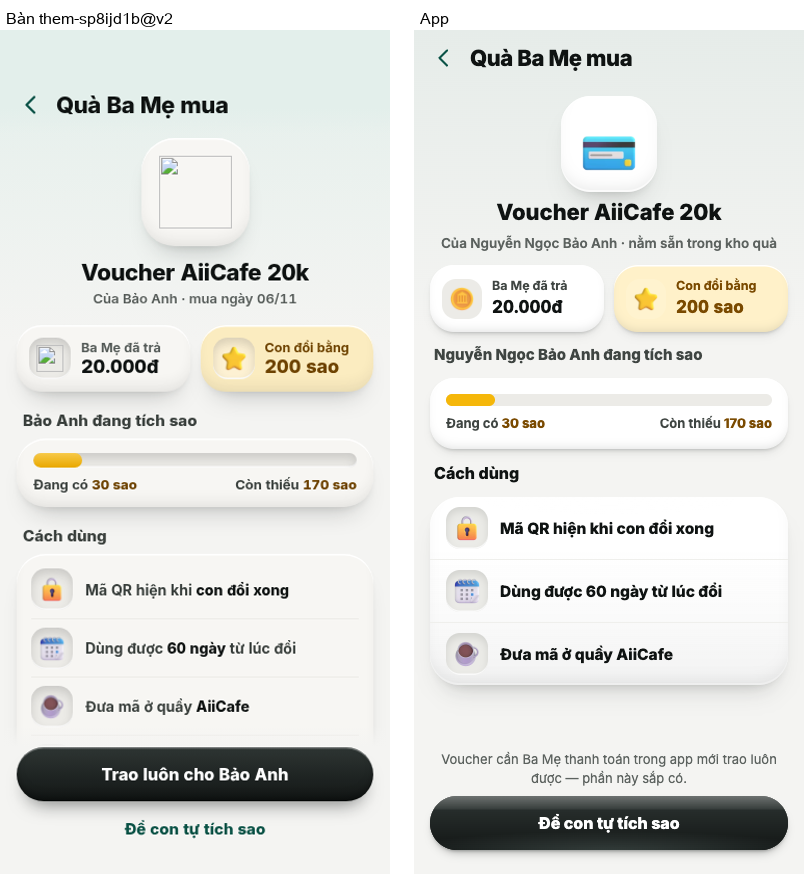
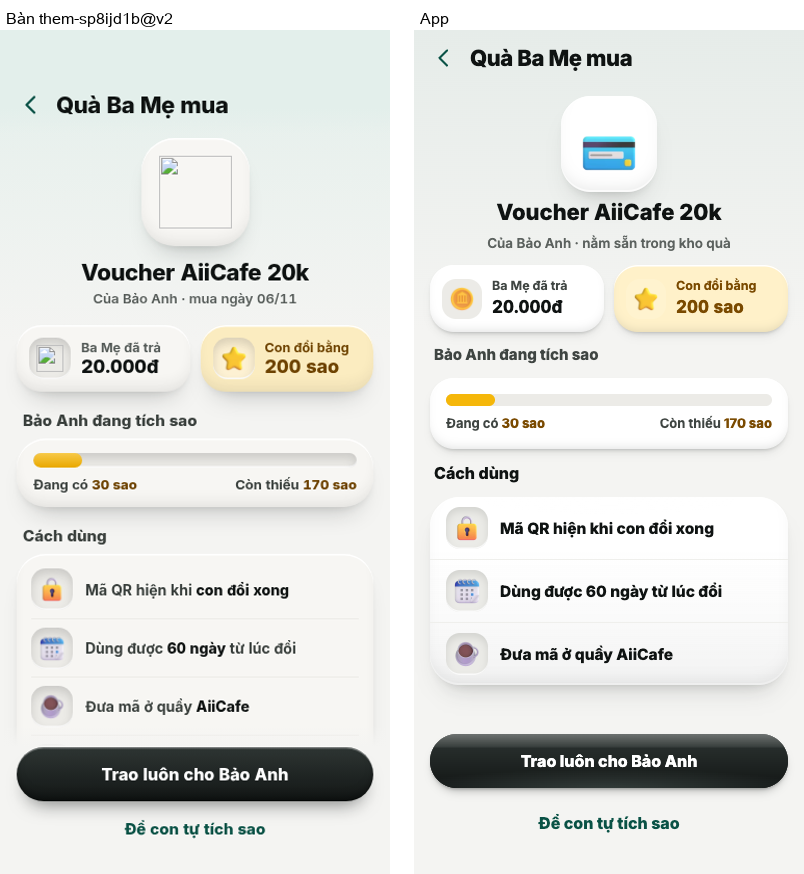
Sửa theo review #351: tên ngắn, «Trao luôn» như bàn, «Áp cho» từ quà đã lưu, nút xoá đỏ đặc
Claude-Session: https://claude.ai/code/session_01DSu591D8CbBg6o268DT8cz

Changed region(s): [[0.5286, 0.8341, 0.995, 0.9886], [0.5597, 0.2471, 0.9639, 0.3089], [0.5286, 0.4016, 0.8706, 0.4325]]

diff --git a/mobile/src/app/vi/qua-mua.tsx b/mobile/src/app/vi/qua-mua.tsx
@@ -8,9 +8,9 @@
 import { router, useLocalSearchParams } from "expo-router";
 import { View } from "react-native";
 import { bm, LoiApi, type GiaDinh } from "@/lib/api";
-import { loiTraoLuon, quaTrongKho, traoLuonDuoc, type DongQua } from "@/lib/noi-1411";
+import { loiTraoLuon, quaTrongKho, type DongQua } from "@/lib/noi-1411";
 import { KHOI } from "@/lib/clay";
-import { quyenToi } from "@/lib/hang-ngay";
+import { quyenToi, tenGoi } from "@/lib/hang-ngay";
 import { icQua, tenVoucher, type NhomThuVien } from "@/lib/s3";
 import { OIcon } from "@/lib/ui-bm3";
 import { BaoLoi, baoKhiVe, ChoTai, Chu, Dong, Icon3D, M, Man, Nhom, Nut, tien, useLam, useTai, type TenIcon } from "@/lib/ui";
@@ -35,7 +35,7 @@ export default function QuaBaMeMua() {
   if (!d) return <Man lui={{ chu: "" }} tieu={tieu}><ChoTai loi={loi} matMang={matMang} tai={tai} /></Man>;
   const m = d.m;
   if (!m) return <Man lui={{ chu: "" }} tieu={tieu}><ChoTai loi="Quà này không còn bán." tai={() => router.back()} /></Man>;
-  const ten = d.c?.ten ?? "con";
+  const ten = d.c ? tenGoi(d.c.ten) : "con";
   const thieu = d.sao !== null ? Math.max(0, m.sao - Math.max(0, d.sao)) : null;
   const cafe = /AiiCafe/i.test(m.ten);
   const them = () => lam(async () => {
@@ -45,8 +45,9 @@ export default function QuaBaMeMua() {
   });
   const qk = d.trongKho;
   // «Trao luôn»: chỉ Ba Mẹ, quà đã ở kho của con, không phải voucher (máy chủ 409 voucher_can_thanh_toan)
-  const traoDuoc = d.baMe && m.daCo && !!con && !!qk && traoLuonDuoc(qk.loai);
-  const voucherCho = d.baMe && m.daCo && !!con && !!qk && !traoLuonDuoc(qk.loai);
+  // bàn sp8ijd1b@v2 vẽ «Trao luôn» cả cho voucher ⇒ hiện nút; voucher thì máy chủ vẫn chặn 409 voucher_can_thanh_toan (chưa có thanh toán)
+  // và màn báo câu dễ hiểu (loiTraoLuon) — logic không đổi
+  const traoDuoc = d.baMe && m.daCo && !!con && !!qk;
   const trao = () => lam(async () => {
     try {
       const r = await bm.goi<{ phut?: number }>(`qua/${qk!.id}/trao-luon`, { con });
@@ -68,7 +69,6 @@ export default function QuaBaMeMua() {
         </>
       ) : m.daCo || !d.baMe ? (
         <>
-          {voucherCho ? <Chu co={13} mau={M.chu3} style={{ textAlign: "center" }}>Voucher cần Ba Mẹ thanh toán trong app mới trao luôn được — phần này sắp có.</Chu> : null}
           <Nut chu="Để con tự tích sao" rong bam={() => router.back()} />
         </>
       ) : (

diff --git a/mobile/src/app/vi/qua-sua.tsx b/mobile/src/app/vi/qua-sua.tsx
@@ -7,7 +7,7 @@ import { router, useLocalSearchParams } from "expo-router";
 import { Pressable, View } from "react-native";
 import { bm, type GiaDinh } from "@/lib/api";
 import { BONG, KHOI } from "@/lib/clay";
-import { type NhiemVuMoi } from "@/lib/hang-ngay";
+import { tenGoi, type NhiemVuMoi } from "@/lib/hang-ngay";
 import { buocGia, cauNgayDoi, HINH_CHON, icQua, saoMoiNgay, thanSuaQua, type QuaS3 } from "@/lib/s3";
 import { GiaSao } from "@/lib/ui-s3";
 import { BangTruot, BaoLoi, baoKhiVe, ChoTai, Chips, Chu, CongTac, Icon3D, M, Man, NhanMen, Nut, ONhap, Rob, The, useLam, useTai, type TenIcon } from "@/lib/ui";
@@ -166,14 +166,14 @@ export default function SuaQua() {
             <View style={{ width: 44, height: 44, borderRadius: 15, backgroundColor: "#ecebe7", alignItems: "center", justifyContent: "center" }}><Icon3D ten={icQua(q) as TenIcon} co={28} /></View>
             <View style={{ flex: 1, minWidth: 0 }}>
               <Chu kieu="rat" co={15}>{q.ten}</Chu>
-              <Chu kieu="dam" co={12.5} mau={M.chu3} dong={1}>{`Áp cho ${d.con.filter((c) => ap.includes(c.id)).map((c) => c.ten).join(", ") || "cả nhà"}`}</Chu>
+              <Chu kieu="dam" co={12.5} mau={M.chu3} dong={1}>{`Áp cho ${d.con.filter((c) => (q.apCho ?? moiCon).includes(c.id)).map((c) => tenGoi(c.ten)).join(", ") || "cả nhà"}`}</Chu>
             </View>
             <GiaSao n={q.sao} />
           </View>
         ) : null}
         {q?.dangGiu ? <Chu co={14} mau={M.chu2}>{`${q.dangGiu} phiếu đang chờ trao sẽ được huỷ và hoàn sao cho con.`}</Chu> : null}
         <BaoLoi loi={loiLam} />
-        <Nut chu={`Xoá quà ${q?.ten ?? ""}`} loai="huy" rong dangChay={dangChay} bam={xoaQua} />
+        <Nut chu={`Xoá quà ${q?.ten ?? ""}`} loai="do" rong dangChay={dangChay} bam={xoaQua} />
         <Nut chu="Giữ lại quà" loai="vien" rong bam={() => setXoa(false)} />
       </BangTruot>
     </Man>
